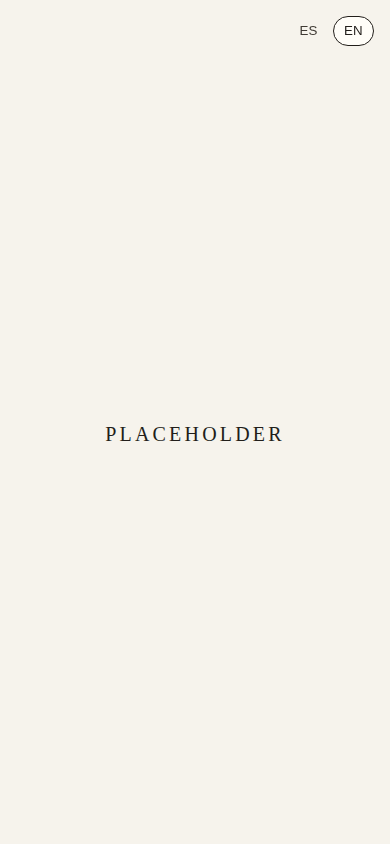
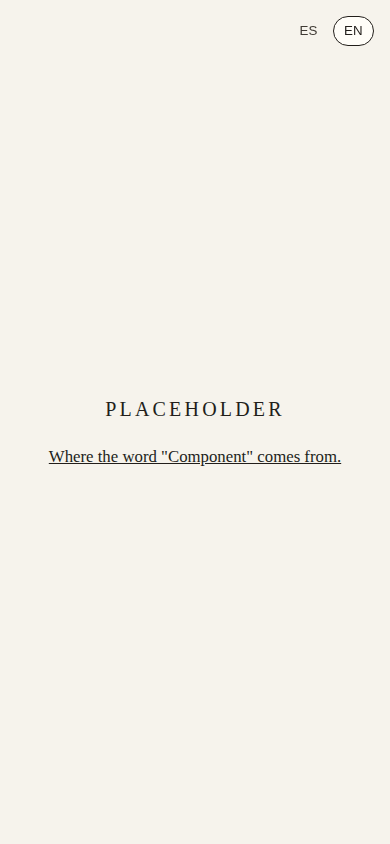
Add the component etymology lesson. (#3)
The first lesson follows the local content adapter, with Spanish and English copy, a /lessons/component route, and a link from home.

Changed region(s): [[0.1231, 0.4621, 0.8615, 0.5545]]

diff --git a/src/pages/Lesson.jsx b/src/pages/Lesson.jsx
@@ -1,0 +1,62 @@
+import { useEffect, useState } from 'react'
+import { useTranslation } from 'react-i18next'
+import { data } from '../lib/data'
+
+const fallback = {
+  titleKey: 'lesson.component.title',
+  sectionKeys: [
+    'lesson.component.sections.root',
+    'lesson.component.sections.entered',
+    'lesson.component.sections.use1560s',
+    'lesson.component.sections.noun1640s',
+    'lesson.component.sections.adjective1660s',
+    'lesson.component.sections.mechanical1896',
+    'lesson.component.sections.today',
+  ],
+  sourceKey: 'lesson.component.source',
+  sourceUrl: 'https://www.etymonline.com/word/component',
+  source: data.kind,
+}
+
+export function Lesson() {
+  const { t, i18n } = useTranslation()
+  const [page, setPage] = useState(fallback)
+
+  useEffect(() => {
+    let active = true
+    data.getPage('lesson-component-etymology').then(
+      (result) => {
+        if (active) setPage(result)
+      },
+      () => {
+        if (active) setPage(fallback)
+      },
+    )
+    return () => {
+      active = false
+    }
+  }, [])
+
+  useEffect(() => {
+    document.title = t(page.titleKey)
+  }, [t, page.titleKey, i18n.language])
+
+  return (
+    <>
+      <main className="lesson" data-source={page.source}>
+        <article>
+          <h1>{t(page.titleKey)}</h1>
+          <ol>
+            {page.sectionKeys.map((key) => (
+              <li key={key}>{t(key)}</li>
+            ))}
+          </ol>
+          <p className="lesson-source">
+            <a href={page.sourceUrl}>{t(page.sourceKey)}</a>
+          </p>
+        </article>
+      </main>
+      <div className="scroll-room" aria-hidden="true" />
+    </>
+  )
+}

diff --git a/scripts/i18n-check.js b/scripts/i18n-check.js
@@ -34,7 +34,11 @@ const esKeys = new Set(flatten(es))
 const enKeys = new Set(flatten(en))
 const missingInEn = [...esKeys].filter((key) => !enKeys.has(key)).sort()
 const missingInEs = [...enKeys].filter((key) => !esKeys.has(key)).sort()
-const contentKeys = (content.pages ?? []).map((page) => page.textKey).filter(Boolean)
+const contentKeys = (content.pages ?? []).flatMap((page) => {
+  const keys = [page.textKey, page.titleKey, page.sourceKey]
+  if (Array.isArray(page.sectionKeys)) keys.push(...page.sectionKeys)
+  return keys.filter((key) => typeof key === 'string' && key !== '')
+})
 const missingContent = []
 
 for (const key of contentKeys) {
@@ -46,7 +50,7 @@ if (missingInEn.length || missingInEs.length || missingContent.length) {
   console.error('i18n:check failed. Every new item ships in both languages.')
   for (const key of missingInEn) console.error(`  missing in en.json: ${key}`)
   for (const key of missingInEs) console.error(`  missing in es.json: ${key}`)
-  for (const key of missingContent) console.error(`  content textKey missing in ${key}`)
+  for (const key of missingContent) console.error(`  content key missing in ${key}`)
   process.exit(1)
 }
 

diff --git a/scripts/data-adapter.test.js b/scripts/data-adapter.test.js
@@ -21,6 +21,26 @@ test('stays on local json when only one supabase variable is set', () => {
   )
 })
 
+test('passes lesson title, sections, and source through', async () => {
+  const page = await chooseAdapter({}).getPage('lesson-component-etymology')
+  assert.deepEqual(page, {
+    id: 'lesson-component-etymology',
+    titleKey: 'lesson.component.title',
+    sectionKeys: [
+      'lesson.component.sections.root',
+      'lesson.component.sections.entered',
+      'lesson.component.sections.use1560s',
+      'lesson.component.sections.noun1640s',
+      'lesson.component.sections.adjective1660s',
+      'lesson.component.sections.mechanical1896',
+      'lesson.component.sections.today',
+    ],
+    sourceKey: 'lesson.component.source',
+    sourceUrl: 'https://www.etymonline.com/word/component',
+    source: 'local',
+  })
+})
+
 test('selects the supabase stub only when both variables are set and does not fetch', async () => {
   const original = globalThis.fetch
   let called = false

diff --git a/src/index.css b/src/index.css
@@ -70,6 +70,63 @@ main h1 {
   letter-spacing: 0.16em;
 }
 
+main a {
+  color: #221e1a;
+}
+
+main a:focus-visible {
+  outline: 2px solid #221e1a;
+  outline-offset: 2px;
+}
+
+.home-intro {
+  display: grid;
+  justify-items: center;
+  gap: 1.5rem;
+  max-width: min(24rem, 100%);
+  text-align: center;
+}
+
+.home-intro a {
+  font-size: 1.05rem;
+  line-height: 1.45;
+  text-wrap: balance;
+}
+
+main.lesson {
+  display: block;
+  max-width: 40rem;
+  margin-inline: auto;
+}
+
+main.lesson h1 {
+  max-width: 16em;
+  margin-bottom: 1.5rem;
+  font-size: clamp(1.7rem, 3.4vw, 2.25rem);
+  letter-spacing: 0.01em;
+  line-height: 1.25;
+  text-wrap: balance;
+}
+
+main.lesson article {
+  font-size: 1.125rem;
+  line-height: 1.55;
+}
+
+main.lesson ol {
+  display: grid;
+  gap: 0.85rem;
+  margin: 0;
+  padding-left: 1.25rem;
+}
+
+.lesson-source {
+  margin: 2rem 0 0;
+  font-size: 0.95rem;
+  line-height: 1.45;
+  overflow-wrap: anywhere;
+}
+
 .scroll-room {
   height: 45vh;
 }

diff --git a/src/components/PageFade.jsx b/src/components/PageFade.jsx
@@ -3,6 +3,7 @@ import { useTranslation } from 'react-i18next'
 import { Route, Routes, useLocation } from 'react-router-dom'
 import { usePrefersReducedMotion } from '../lib/reducedMotion'
 import { Home } from '../pages/Home'
+import { Lesson } from '../pages/Lesson'
 
 export function PageFade() {
   const reduced = usePrefersReducedMotion()
@@ -21,6 +22,7 @@ export function PageFade() {
         transition={{ duration: reduced ? 0 : 0.4, ease: 'easeOut' }}
       >
         <Routes location={location}>
+          <Route path="/lessons/component" element={<Lesson />} />
           <Route path="*" element={<Home />} />
         </Routes>
       </motion.div>

diff --git a/src/pages/Home.jsx b/src/pages/Home.jsx
@@ -1,5 +1,6 @@
 import { useEffect, useState } from 'react'
 import { useTranslation } from 'react-i18next'
+import { Link } from 'react-router-dom'
 import { data } from '../lib/data'
 
 export function Home() {
@@ -31,7 +32,10 @@ export function Home() {
   return (
     <>
       <main data-source={page.source}>
-        <h1>{t(page.textKey)}</h1>
+        <div className="home-intro">
+          <h1>{t(page.textKey)}</h1>
+          <Link to="/lessons/component">{t('lesson.component.title')}</Link>
+        </div>
       </main>
       <div className="scroll-room" aria-hidden="true" />
     </>

diff --git a/src/lib/data.js b/src/lib/data.js
@@ -3,7 +3,7 @@ import content from '../data/content.json' with { type: 'json' }
 function readPage(pages, id, source) {
   const page = pages.find((item) => item.id === id)
   if (!page) throw new Error(`Unknown page: ${id}`)
-  return { id: page.id, textKey: page.textKey, source }
+  return { ...page, source }
 }
 
 function createLocalAdapter(pages) {

diff --git a/README.md b/README.md
@@ -2,7 +2,7 @@
 
 Samuel Barrios personal bilingual (Spanish/English) learning website.
 
-Spanish and English are both first-class. This first step is the scaffold: one sample page whose only copy is placeholder text.
+Spanish and English are both first-class. Home is still the placeholder page. The first lesson, where the word "component" comes from, is at `/lessons/component`.
 
 ## Languages
 
@@ -10,7 +10,7 @@ Translations live in `src/i18n/es.json` and `src/i18n/en.json`. The visitor's ch
 
 Every new item ships in both languages.
 
-`npm run i18n:check` fails when a key exists in one language but not the other. It also fails when a `textKey` in `src/data/content.json` is missing from either language file.
+`npm run i18n:check` fails when a key exists in one language but not the other. It also fails when a page's `textKey`, `titleKey`, `sourceKey`, or `sectionKeys` entry in `src/data/content.json` is missing from either language file.
 
 ## Scripts
 
